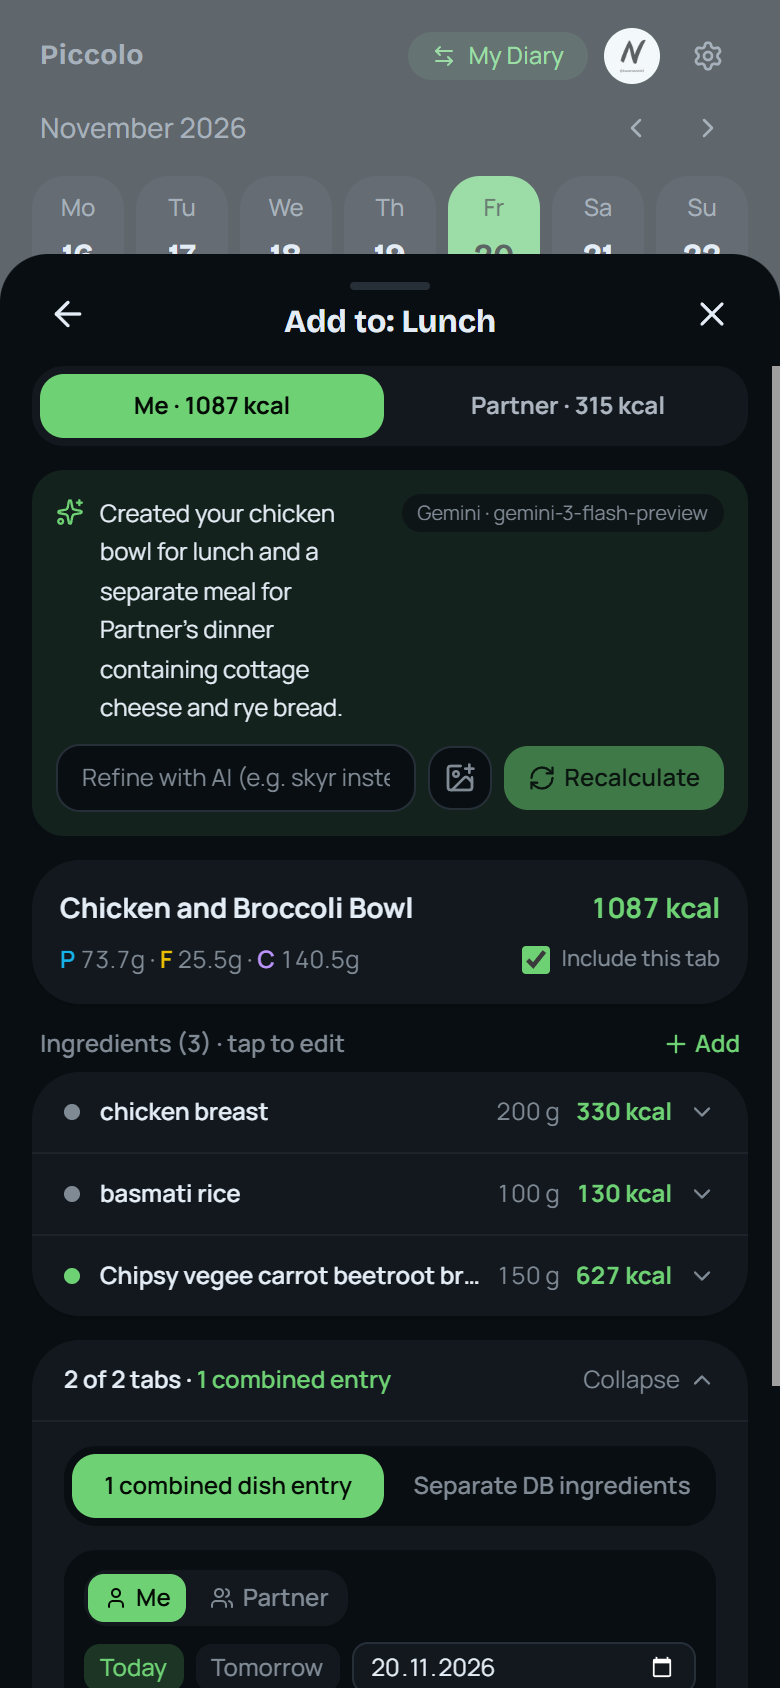
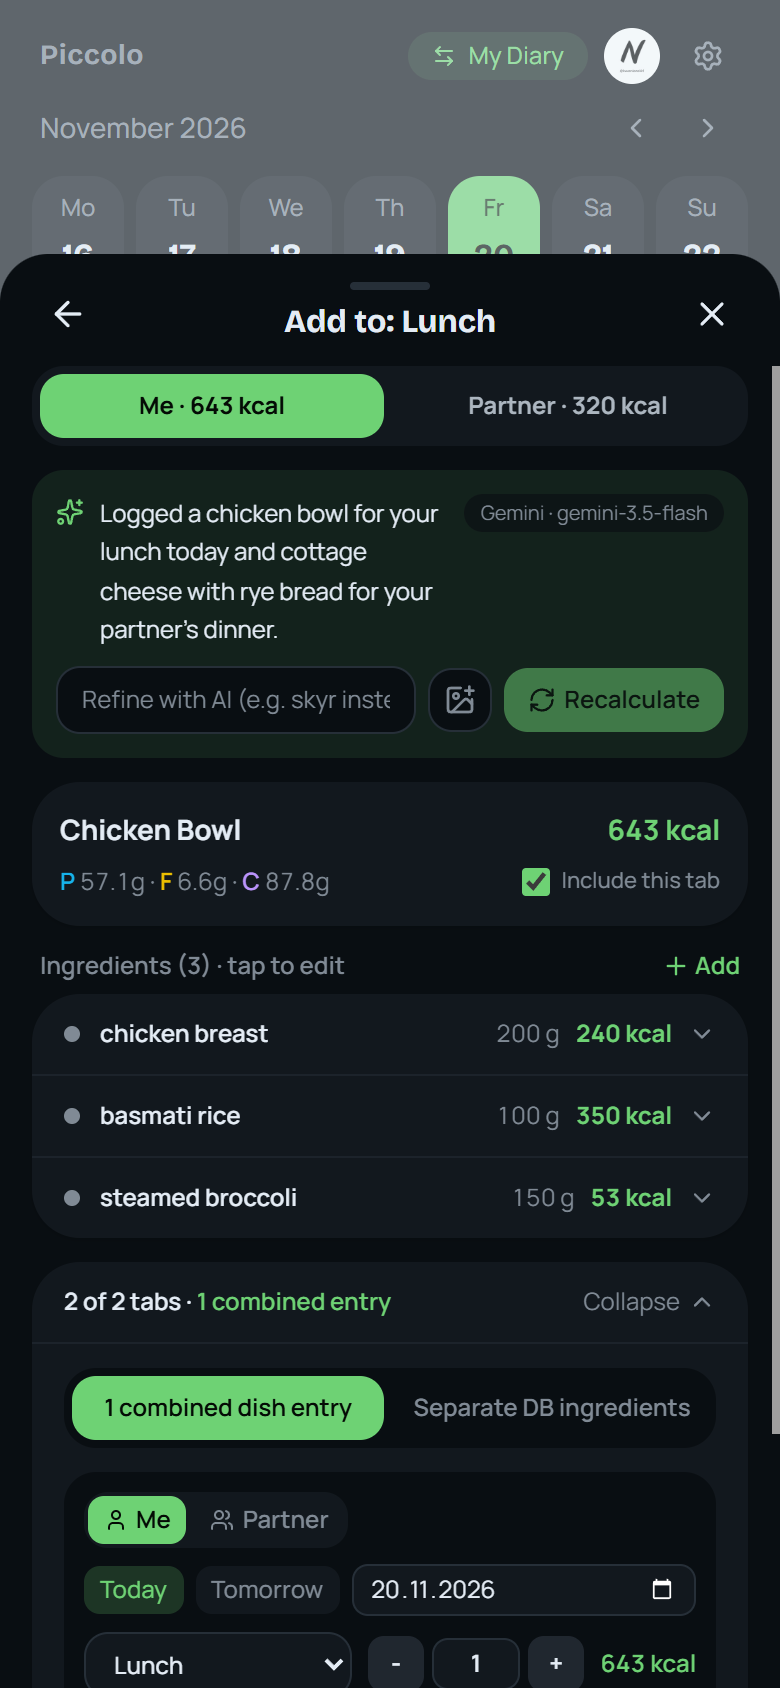
fix(ai): guard calorie-mismatched DB matches, localize portions & refresh English media

diff --git a/frontend/src/components/tracker/ai-meal-assistant.tsx b/frontend/src/components/tracker/ai-meal-assistant.tsx
@@ -108,11 +108,14 @@ function shiftIsoDate(isoDate: string, days: number): string {
   return `${y}-${m}-${day}`
 }
 
-function formatPortionLabel(portions: number): string {
-  const formatted = portions.toLocaleString('pl-PL', {
+function formatPortionLabel(portions: number, language: Language = 'pl'): string {
+  const formatted = portions.toLocaleString(language === 'en' ? 'en-US' : 'pl-PL', {
     minimumFractionDigits: 0,
     maximumFractionDigits: 2,
   })
+  if (language === 'en') {
+    return `${formatted} ${portions === 1 ? 'portion' : 'portions'}`
+  }
   if (portions === 1) return `${formatted} porcja`
   if (portions > 1 && portions < 5 && Number.isInteger(portions)) {
     return `${formatted} porcje`
@@ -147,7 +150,7 @@ async function compressImageToDataUrl(file: File): Promise<string> {
     canvas.width = Math.max(1, width)
     canvas.height = Math.max(1, height)
     const ctx = canvas.getContext('2d')
-    if (!ctx) throw new Error('Brak kontekstu Canvas 2D')
+    if (!ctx) throw new Error('Canvas 2D context unavailable')
 
     ctx.drawImage(img, 0, 0, canvas.width, canvas.height)
     return canvas.toDataURL('image/jpeg', quality)
@@ -187,6 +190,25 @@ function sortCandidatesLocalFirst(products: Product[]): Product[] {
   const local = products.filter((p) => p.id > 0 && p.dataSource !== 'OFF')
   const off = products.filter((p) => p.id === 0 || p.dataSource === 'OFF')
   return [...local, ...off]
+}
+
+/**
+ * Prevents bogus partial/substring catalog matches (e.g., matching "broccoli" to
+ * 418 kcal vegetable chips or "olive oil" to a 150 kcal salad dressing) from being
+ * auto-selected as the ingredient's database match.
+ */
+function isPlausibleLocalMatch(
+  candidate: Product,
+  ing: AiAnalyzedIngredient
+): boolean {
+  const aiKcal = ing.nutritionPer100g.calories
+  if (aiKcal > 0) {
+    if (candidate.caloriesPer100g <= 0) return false
+    const diff = Math.abs(candidate.caloriesPer100g - aiKcal)
+    const maxAllowedDiff = Math.max(45, aiKcal * 0.45)
+    if (diff > maxAllowedDiff) return false
+  }
+  return true
 }
 
 async function resolveSingleIngredientMatch(
@@ -268,7 +290,11 @@ async function resolveSingleIngredientMatch(
     }
   }
 
-  if (localCandidates.length > 0) {
+  const plausibleLocalMatch = localCandidates.find((p) =>
+    isPlausibleLocalMatch(p, ing)
+  )
+
+  if (plausibleLocalMatch) {
     return {
       localId: makeLocalId('ing'),
       rawName: ing.rawName,
@@ -280,7 +306,7 @@ async function resolveSingleIngredientMatch(
       nutritionPer100g: ing.nutritionPer100g,
       newProductDetails: ing.newProductDetails,
       candidates,
-      selectedProduct: localCandidates[0],
+      selectedProduct: plausibleLocalMatch,
     }
   }
 
@@ -730,7 +756,7 @@ export function AiMealAssistant({
           if (saveMode === 'single_dish') {
             const entryName =
               m.totalPortions !== 1 || alloc.portions !== 1
-                ? `${safeDishName} (${formatPortionLabel(alloc.portions)})`
+                ? `${safeDishName} (${formatPortionLabel(alloc.portions, language)})`
                 : safeDishName
 
             const created = await api.createDiaryEntry(
@@ -1642,7 +1668,10 @@ function CompactIngredientRow({
         await api.searchProducts(nextIng.searchQuery, language)
       )
       const localMatch = dbMatches.find(
-        (p) => p.id > 0 && p.dataSource !== 'OFF'
+        (p) =>
+          p.id > 0 &&
+          p.dataSource !== 'OFF' &&
+          isPlausibleLocalMatch(p, nextIng)
       )
 
       setSearchTerm(nextIng.searchQuery)

diff --git a/frontend/src/lib/ai-provider.ts b/frontend/src/lib/ai-provider.ts
@@ -100,7 +100,7 @@ async function callOpenAiVisionJson<T>(
   const content = payload.choices?.[0]?.message?.content
 
   if (!content || typeof content !== 'string') {
-    throw new AiProviderError('Brak odpowiedzi z API OpenAI', 500)
+    throw new AiProviderError('Empty response from OpenAI API', 500)
   }
 
   return {
@@ -110,7 +110,8 @@ async function callOpenAiVisionJson<T>(
   }
 }
 
-const RETRYABLE_PROVIDER_STATUSES = new Set([401, 403, 404, 429, 500, 502, 503])
+const RETRYABLE_PROVIDER_STATUSES = new Set([401, 403, 404, 429, 500, 502, 503, 504])
+const GEMINI_REQUEST_TIMEOUT_MS = 15000
 const GEMINI_FALLBACK_MODELS = [
   'gemini-3-flash-preview',
   'gemini-3.8-flash',
@@ -145,27 +146,39 @@ async function callSingleGeminiModel<T>(
     model
   )}:generateContent?key=${encodeURIComponent(apiKey)}`
 
-  const response = await fetch(url, {
-    method: 'POST',
-    headers: {
-      'Content-Type': 'application/json',
-    },
-    body: JSON.stringify({
-      systemInstruction: {
-        parts: [{ text: options.systemPrompt }],
+  let response: Response
+  try {
+    response = await fetch(url, {
+      method: 'POST',
+      headers: {
+        'Content-Type': 'application/json',
       },
-      contents: [
-        {
-          role: 'user',
-          parts,
+      signal:
+        typeof AbortSignal !== 'undefined' && typeof AbortSignal.timeout === 'function'
+          ? AbortSignal.timeout(GEMINI_REQUEST_TIMEOUT_MS)
+          : undefined,
+      body: JSON.stringify({
+        systemInstruction: {
+          parts: [{ text: options.systemPrompt }],
         },
-      ],
-      generationConfig: {
-        responseMimeType: 'application/json',
-        maxOutputTokens: Math.max(options.maxTokens ?? 4096, 8192),
-      },
-    }),
-  })
+        contents: [
+          {
+            role: 'user',
+            parts,
+          },
+        ],
+        generationConfig: {
+          responseMimeType: 'application/json',
+          maxOutputTokens: Math.max(options.maxTokens ?? 4096, 8192),
+        },
+      }),
+    })
+  } catch (err) {
+    if (err instanceof Error && (err.name === 'TimeoutError' || err.name === 'AbortError')) {
+      throw new AiProviderError('AI analysis timed out (Gemini)', 504)
+    }
+    throw err
+  }
 
   if (!response.ok) {
     const errorText = await response.text()
@@ -185,7 +198,7 @@ async function callSingleGeminiModel<T>(
     .trim()
 
   if (!content) {
-    throw new AiProviderError('Brak odpowiedzi z API Gemini', 500)
+    throw new AiProviderError('Empty response from Gemini API', 500)
   }
 
   return {
@@ -215,7 +228,7 @@ async function callGeminiVisionJson<T>(
       lastError = error
       if (
         error instanceof AiProviderError &&
-        [404, 429, 500, 502, 503].includes(error.status)
+        RETRYABLE_PROVIDER_STATUSES.has(error.status)
       ) {
         console.warn(
           `[AI:gemini] Model ${model} returned HTTP ${error.status}, trying next Gemini model...`
@@ -266,7 +279,7 @@ export async function callVisionJsonModel<T>(
   }
 
   if (!openaiKey) {
-    console.error('[AI] Brak klucza OPENAI_API_KEY ani GEMINI_API_KEY')
+    console.error('[AI] Missing both OPENAI_API_KEY and GEMINI_API_KEY')
     throw new AiProviderError('AI server configuration error (missing API key)', 500)
   }
 

diff --git a/frontend/src/components/tracker/ai-meal-assistant.test.tsx b/frontend/src/components/tracker/ai-meal-assistant.test.tsx
@@ -385,4 +385,93 @@ describe('AiMealAssistant', () => {
     expect(api.searchProducts).toHaveBeenCalledWith('rolled oats', 'en')
     window.localStorage.removeItem('piccolo-language')
   })
+
+  it('rejects calorie-mismatched local DB hits (e.g. vegetable chips for steamed broccoli) and saves English meal/ingredient names', async () => {
+    window.localStorage.setItem('piccolo-language', 'en')
+
+    const bogusBroccoliChips: Product = {
+      id: 999,
+      name: 'Chipsy vegee carrot beetroot broccoli',
+      caloriesPer100g: 418,
+      proteinPer100g: 6,
+      fatPer100g: 16,
+      carbsPer100g: 60,
+      unit: 'g',
+      defaultServing: 100,
+      dataSource: 'System',
+    }
+
+    vi.mocked(api.searchProducts).mockImplementation(async (query: string) => {
+      if (query.toLowerCase().includes('broccoli')) return [bogusBroccoliChips]
+      return []
+    })
+
+    const fetchMock = vi.fn().mockResolvedValueOnce({
+      ok: true,
+      json: async () => ({
+        aiSummary: 'Analyzed grilled chicken with steamed broccoli.',
+        provider: 'gemini',
+        model: 'gemini-3-flash-preview',
+        meals: [
+          {
+            dishName: 'Grilled Chicken & Broccoli',
+            tabLabel: 'Me',
+            totalPortions: 1,
+            ingredients: [
+              {
+                rawName: 'steamed broccoli',
+                searchQuery: 'broccoli',
+                amountGrams: 150,
+                sourceType: 'database_candidate',
+                saveToDatabase: false,
+                nutritionPer100g: { calories: 34, protein: 2.8, fat: 0.4, carbs: 6.6 },
+              },
+            ],
+            allocations: [
+              { target: 'self', date: '2026-11-20', mealType: 'lunch', portions: 1 },
+            ],
+          },
+        ],
+      }),
+    })
+    vi.stubGlobal('fetch', fetchMock)
+
+    const onComplete = vi.fn()
+    render(
+      <LanguageProvider>
+        <AiMealAssistant
+          meal="lunch"
+          date="2026-11-20"
+          onBack={vi.fn()}
+          onComplete={onComplete}
+          showToast={vi.fn()}
+        />
+      </LanguageProvider>
+    )
+
+    fireEvent.change(screen.getByLabelText('What did you prepare?'), {
+      target: { value: '150g steamed broccoli' },
+    })
+    fireEvent.click(screen.getByRole('button', { name: /Analyze with AI/i }))
+
+    // Keeps clean English ingredient & realistic 51 kcal instead of 627 kcal vegetable chips
+    await screen.findByRole('button', { name: /steamed broccoli/i })
+    expect(screen.queryByRole('button', { name: /Chipsy vegee/i })).not.toBeInTheDocument()
+    expect(screen.getAllByText('51 kcal').length).toBeGreaterThanOrEqual(2)
+
+    // Confirm and save in single_dish mode -> persists English dishName
+    fireEvent.click(screen.getByRole('button', { name: /Confirm & add to diary/i }))
+    await waitFor(() => expect(onComplete).toHaveBeenCalledTimes(1))
+
+    expect(api.createDiaryEntry).toHaveBeenCalledWith(
+      '2026-11-20',
+      'lunch',
+      null,
+      expect.objectContaining({
+        customName: 'Grilled Chicken & Broccoli',
+        customCalories: 51,
+      })
+    )
+    window.localStorage.removeItem('piccolo-language')
+  })
 })

diff --git a/README.md b/README.md
@@ -8,7 +8,7 @@
 
 > **Mobile-first calorie and macro diary** featuring a multimodal AI meal assistant, real-time 1:1 partner sync, barcode scanning with Open Food Facts fallback, and a multi-source nutrition catalog.
 
-Built as a full-stack personal nutrition platform combining a **Next.js 16 + TypeScript** PWA frontend with an **ASP.NET Core 10 + EF Core (SQLite)** REST API, secured by **Clerk JWT** authentication and backed by **68 automated integration and UI tests**.
+Built as a full-stack personal nutrition platform combining a **Next.js 16 + TypeScript** PWA frontend with an **ASP.NET Core 10 + EF Core (SQLite)** REST API, secured by **Clerk JWT** authentication and backed by **69 automated integration and UI tests**.
 
 ---
 
@@ -74,7 +74,7 @@ flowchart LR
    * *Tradeoff:* Keeps search latency predictable even on SQLite while surfacing relevant local foods immediately without external network dependency.
 4. **Isolated Full-Stack Test Harness ([CustomWebApplicationFactory.cs](backend/Piccolo.Api.Tests/Helpers/CustomWebApplicationFactory.cs))**
    * *Decision:* Replace file-backed SQLite, Clerk JWKS validation, and live Open Food Facts HTTP calls with an in-memory SQLite connection, `TestAuthHandler`, and `MockOpenFoodFactsService` in xUnit, and mock `fetch`/Clerk in Vitest.
-   * *Tradeoff:* Enables deterministic, zero-secret CI runs across all 68 tests in seconds.
+   * *Tradeoff:* Enables deterministic, zero-secret CI runs across all 69 tests in seconds.
 
 ---
 
@@ -86,7 +86,7 @@ flowchart LR
 | **Backend** | ASP.NET Core 10, Entity Framework Core 10, SQLite, JWT Bearer Authentication |
 | **Auth & AI** | Clerk (`@clerk/nextjs` + JWKS verification), Google Gemini Vision API, OpenAI Vision API |
 | **Data & ETL** | Python 3 ETL pipeline (`tools/catalog-etl/`), C# `CatalogImporter` CLI, Open Food Facts API |
-| **Testing & CI** | xUnit + `WebApplicationFactory` (51 tests), Vitest + React Testing Library (17 tests), GitHub Actions |
+| **Testing & CI** | xUnit + `WebApplicationFactory` (51 tests), Vitest + React Testing Library (18 tests), GitHub Actions |
 
 ---
 
@@ -98,7 +98,7 @@ All suites run completely offline with mocked external dependencies:
 # Backend integration tests (51 xUnit tests)
 dotnet test backend/Piccolo.Api.Tests
 
-# Frontend typecheck & unit/component tests (17 Vitest tests across 5 files)
+# Frontend typecheck & unit/component tests (18 Vitest tests across 5 files)
 cd frontend
 npm run typecheck
 npm test
